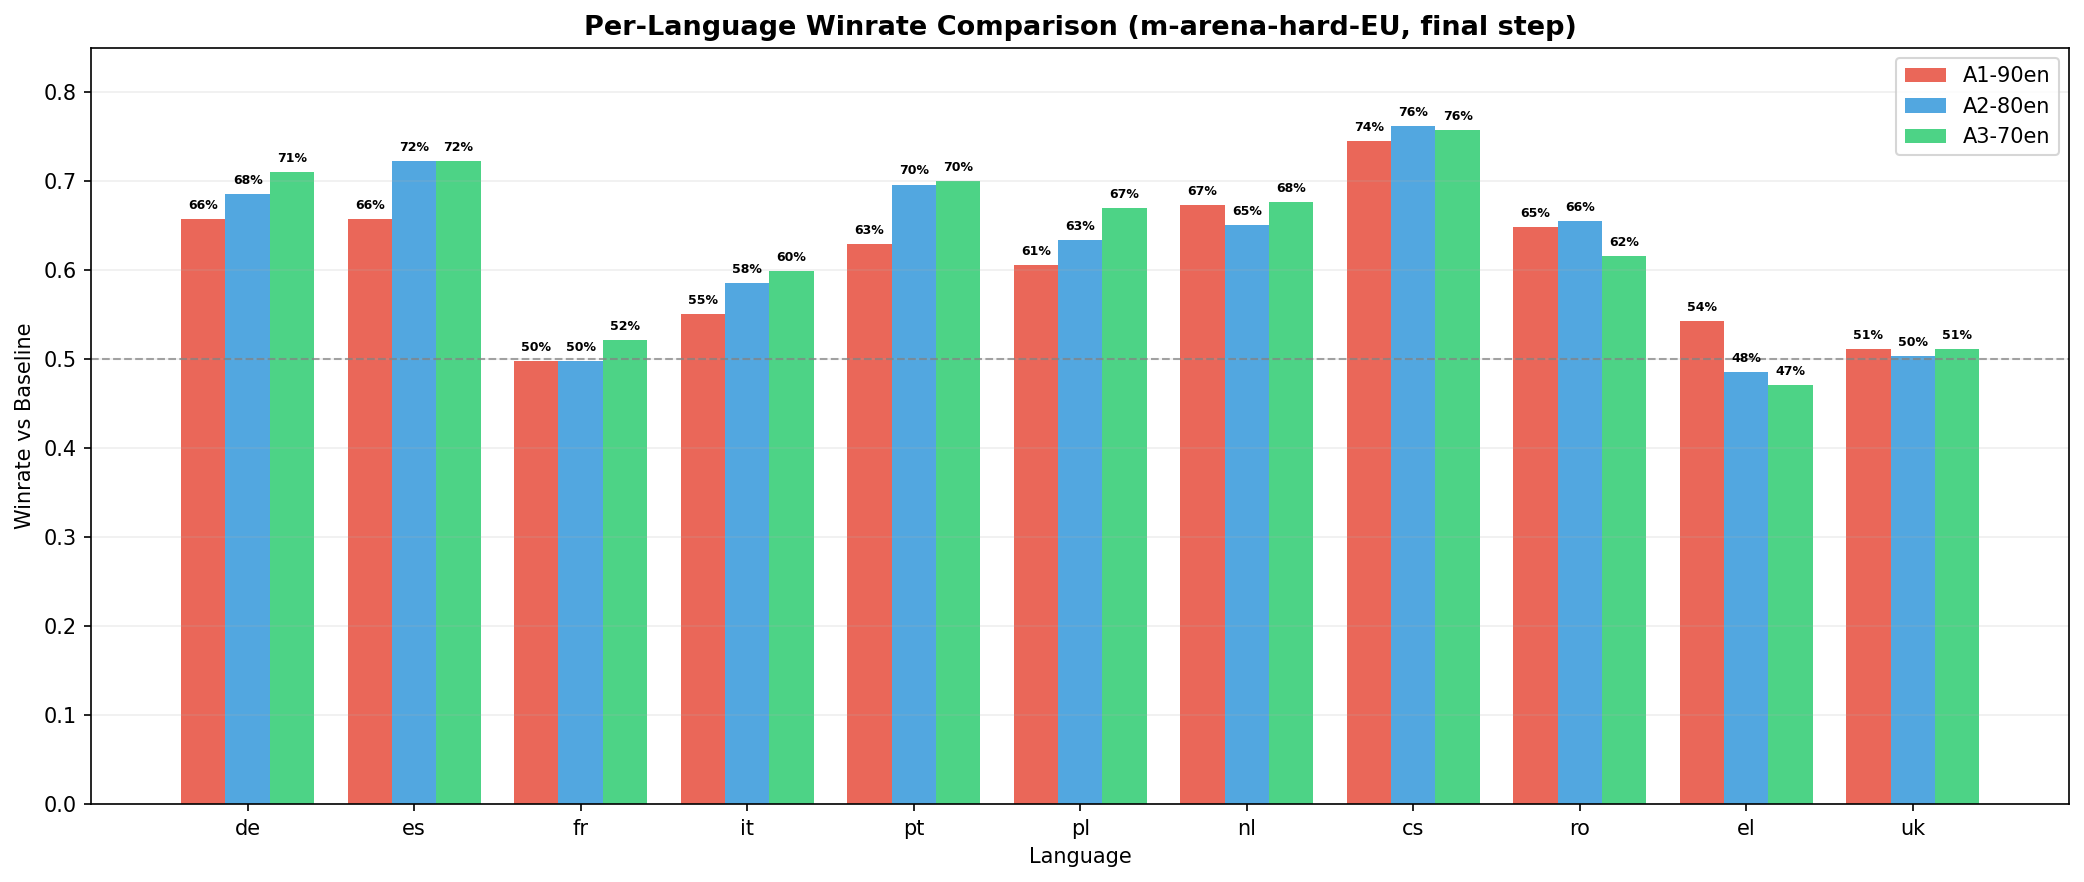
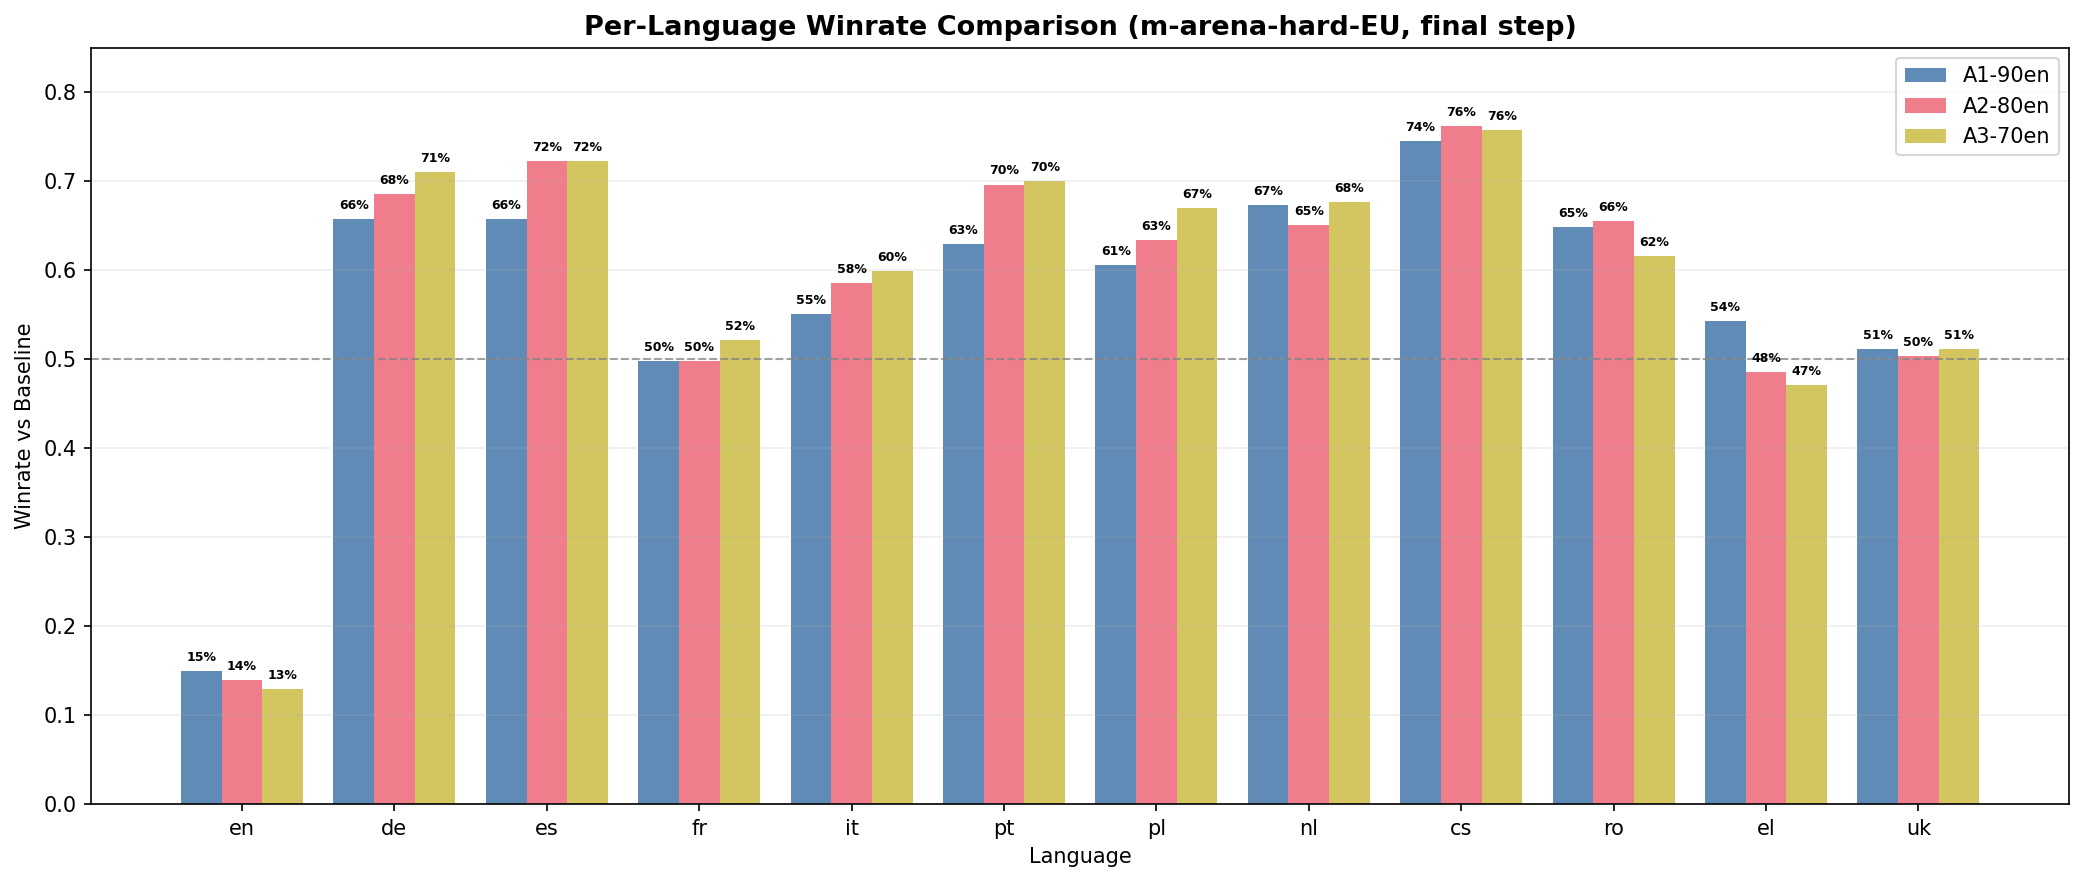
Use colorblind-friendly palette (Paul Tol) and restore English in per-language plot

diff --git a/oellm/experiments/multilingual_eu/scripts/plot_training_curve.py b/oellm/experiments/multilingual_eu/scripts/plot_training_curve.py
@@ -25,11 +25,11 @@ PLOTS_DIR = EXPERIMENT_DIR / "plots"
 
 # Color palette for experiments
 COLORS = {
-    "A1-90en": "#e74c3c",  # Red
-    "A2-80en": "#3498db",  # Blue
-    "A3-70en": "#2ecc71",  # Green
-    "B1-90en": "#9b59b6",  # Purple
-    "B2-80en": "#f39c12",  # Orange
+    "A1-90en": "#4477AA",  # Blue
+    "A2-80en": "#EE6677",  # Rose/Pink
+    "A3-70en": "#CCBB44",  # Yellow
+    "B1-90en": "#AA3377",  # Purple
+    "B2-80en": "#66CCEE",  # Cyan
 }
 
 MARKERS = {
@@ -272,11 +272,9 @@ def plot_per_language_comparison(lang_rows: list[dict], output_dir: Path):
         step_rows = [r for r in exp_rows if r["step"] == max_step]
         exp_data[experiment] = {r["language"]: r["value"] for r in step_rows}
 
-    # Get all languages (exclude English — different scale, shown separately in arena-hard)
+    # Get all languages
     all_langs = []
     for lang in LANG_ORDER:
-        if lang == "en":
-            continue
         if any(lang in d for d in exp_data.values()):
             all_langs.append(lang)
 
